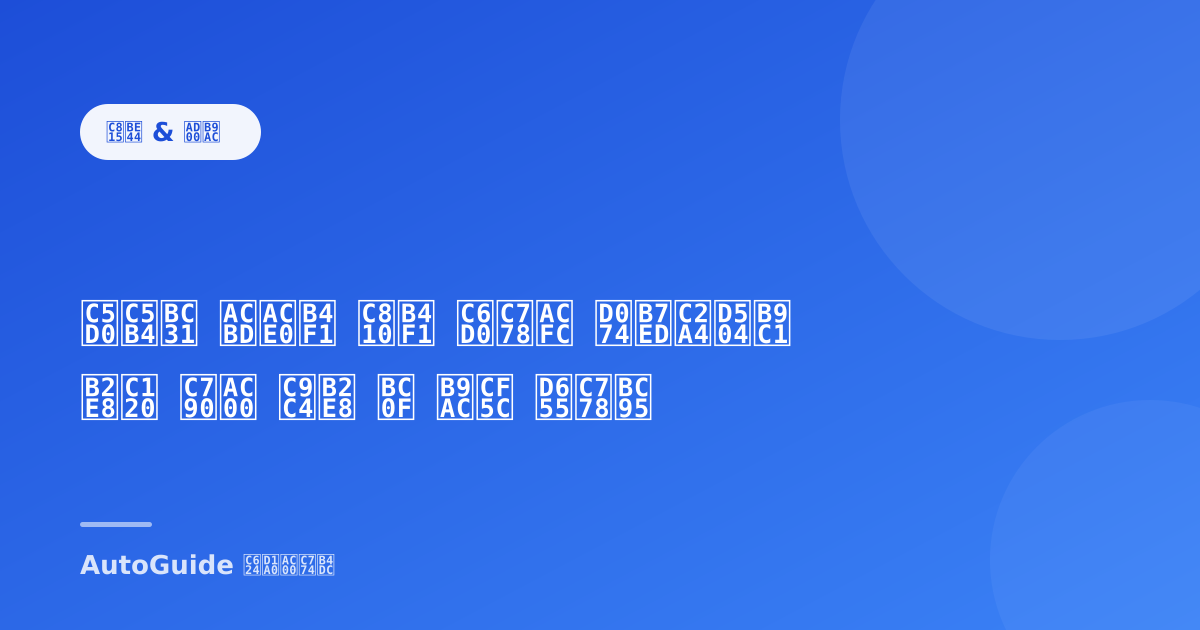
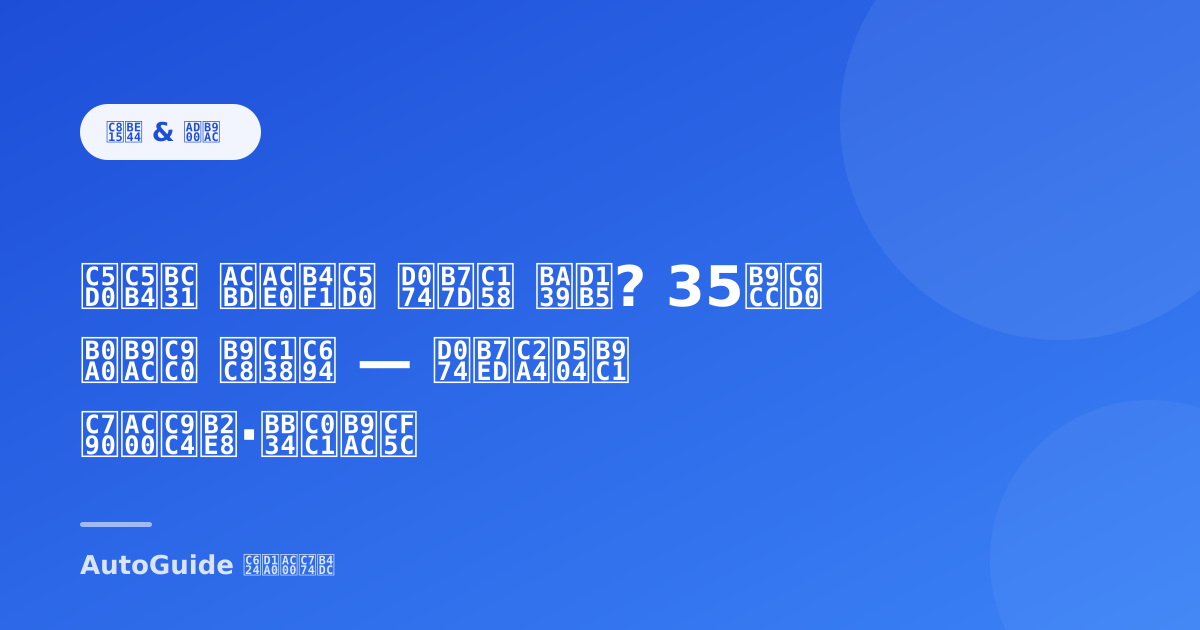
chore(blog): auto publish new article [skip ci]

Changed region(s): [[0.0617, 0.3921, 0.7092, 0.7238]]

diff --git a/src/content/blog/low-mileage-used-car-buying-pitfalls.md b/src/content/blog/low-mileage-used-car-buying-pitfalls.md
@@ -1,0 +1,192 @@
+---
+title: '주행거리 4만km 이하 중고차만 고르면 위험한 이유 — 가다 서다 가혹 조건 차량 구분법'
+description: '연식 대비 주행거리가 짧아 인기 높은 중고차의 숨겨진 가혹 주행 흔적과 속기 쉬운 맹점을 분석합니다.'
+pubDate: 2026-09-07
+category: 'buying'
+tags: ['중고차구매', '짧은주행거리', '가혹조건', '중고차점검']
+heroEmoji: '🔍'
+featured: false
+heroImage: '/images/heroes/low-mileage-used-car-buying-pitfalls.jpg'
+heroImageCredit: 'Erik Mclean / Pexels'
+heroImageId: '12700837'
+ogImage: '/images/heroes/low-mileage-used-car-buying-pitfalls-card.png'
+---
+
+주행거리 3만km 중고차가 8만km 차보다 엔진 상태가 안 좋을 수 있습니다. 단거리 주행의 함정을 확인하세요.
+
+중고차 시장에서 '연식 대비 짧은 주행거리'는 무조건적인 프리미엄 요소로 평가받습니다. 주행거리가 4만km 이하인 매물은 신차급 상태라는 인식이 강해 동급 평균 시세보다 수백만 원 높은 가격대가 형성됩니다. 그러나 자동차 제조사의 정비 지침서(Workshop Manual)와 기계공학적 원리를 대조해보면, '단거리 가다 서다' 위주로 운행된 저주행 차량은 장거리 정속 주행 위주의 고주행 차량보다 엔진 및 구동계 마모가 훨씬 심각하게 진행되었을 가능성이 큽니다.
+
+누적 주행거리는 단순히 바퀴가 굴러간 물리적 거리만을 나타낼 뿐, 엔진이 시동된 채 가동된 총 시간(Engine Operating Hours)과 엔진이 적정 작동 온도에 도달했는지 여부는 반영하지 못합니다. 4만km 이하 저주행 중고차에 숨겨진 구조적 위험성과 가혹 조건 차량을 가려내는 체계적인 검증 절차를 정리해 드립니다.
+
+---
+
+## 1. 저주행거리 중고차의 가격 거품과 '가혹 조건(Severe Condition)'의 진실
+
+국내 주요 완성차 및 수입차 제조사의 취급설명서를 살펴보면 차량 운행 조건을 '통상 조건'과 '가혹 조건'으로 명확히 구분하고 있습니다. 대다수 소비자는 험로 주행이나 과적만을 가혹 조건으로 생각하지만, 제조사가 규정하는 대표적인 가혹 조건은 다음과 같습니다.
+
+*   **1회 8km 미만의 짧은 거리 반복 주행**
+*   **잦은 정지와 출발을 반복하는 도심 체증 구간 주행**
+*   **공회전 시간이 과다하게 긴 주행 환경**
+*   **엔진이 적정 온도(냉각수 기준 85～95℃)에 도달하기 전 시동을 끄는 환경**
+
+```
+[통상 조건 vs 도심 가혹 조건 주행 비교]
+┌─────────────────┬──────────────────────┬──────────────────────┐
+│ 항목            │ 고속도로 장거리 위주  │ 도심 단거리 체증 위주│
+├─────────────────┼──────────────────────┼──────────────────────┤
+│ 누적 주행거리   │ 80,000 km            │ 30,000 km            │
+│ 평균 주행속도   │ 60～80 km/h         │ 15～20 km/h         │
+│ 엔진 가동 시간  │ 약 1,000～1,300시간 │ 약 1,500～2,000시간 │
+│ 냉각수 정상온도 │ 항시 정상 유지       │ 도달 전 주행 종료 빈발│
+│ 엔진 마모도     │ 낮음 (유막 안정적)   │ 높음 (냉간 시동 누적)│
+└─────────────────┴──────────────────────┴──────────────────────┘
+```
+
+평균 시속 15km로 서울 시내를 3만km 주행한 차량은 엔진이 약 2,000시간 동안 작동한 것입니다. 반면 평균 시속 70km로 고속도로를 8만km 주행한 차량의 엔진 가동 시간은 약 1,140시간에 불과합니다. 주행거리는 후자가 2.6배 길지만, 엔진 회전수(RPM) 누적과 열화 측면에서는 전자가 훨씬 가혹한 스트레스를 받은 셈입니다.
+
+그럼에도 불구하고 중고차 시장에서는 오직 계기판의 숫자만으로 3만km 차량에 200만～500만 원 이상의 웃돈을 책정합니다. 소비자는 '신차급 컨디션'이라는 명목으로 프리미엄을 지불하지만, 실제로는 내부 카본 누적과 윤활 불량이 진행된 차량을 고가에 인수하는 위험을 안게 됩니다.
+
+---
+
+## 2. 단거리 반복 주행 차량에서 발생하는 3대 기계적 결함
+
+단거리 도심 주행 위주로 누적 거리가 짧은 차량은 기계적으로 뚜렷한 세 가지 결함 패턴을 보입니다.
+
+### ① 엔진 내부 슬러지 형성 및 직분사(GDI) 흡기 밸브 카본 고착
+엔진이 정상 작동 온도에 도달하지 못하면 실린더 내부의 완전 연소가 이루어지지 않습니다. 이때 발생한 미연소 연료와 블로바이 가스(Blow-by Gas)는 크랭크케이스 내부로 유입되어 엔진오일과 섞입니다. 온도가 충분히 올라가지 않은 상태에서는 오일에 섞인 수분과 연료가 증발하지 못해 유화 현상(Mayonnaise Sludge)이 발생하고, 오일 겔화로 인해 윤활 성능이 급격히 저하됩니다. 직분사(GDI/T-GDI) 엔진의 경우 흡기 밸브 뒤편에 단단한 카본 바니시가 흡착되어 출력 저하와 노킹, 밸브 기밀 불량을 유발합니다.
+
+### ② 배출가스 후처리 장치(DPF/GPF)의 재생 실패 및 막힘
+디젤 차량의 매연저감장치(DPF)나 가솔린 미립자 필터(GPF)는 일정량 이상의 포집량이 쌓이면 배기가스 온도를 600℃ 이상으로 올려 퇴적물을 태워 없애는 '재생(Regeneration)' 과정을 거쳐야 합니다. 그러나 1회 주행 거리가 10～15분 내외인 도심 주행 차량은 배기 온도가 올라가지 않아 재생 모드가 중단되거나 실행되지 못합니다. 이로 인해 필터가 막혀 고가의 DPF 파손 및 차압 센서 고장, 터보차저 백프레셔 증가로 이어집니다.
+
+### ③ 유압계통 밸브 바디 오염 및 변속기 열화
+가다 서다를 반복하는 조건은 변속기 내부 1단, 2단 클러치 팩과 토크컨버터 록업 클러치에 잦은 슬립을 유발합니다. 특히 듀얼 클러치 변속기([DCT](/blog/dct-transmission-driving-tips/))의 경우, 저속 정체 구간에서 반클러치 상태가 지속되어 클러치 디스크의 조기 마모 및 열변형이 발생합니다. 미션오일 온도가 빈번하게 급상승하여 밸브 바디 내부 솔레노이드 밸브에 이물질이 고착되는 현상이 잦아집니다.
+
+---
+
+## 3. 방치 및 저주행 차량의 고무·케미컬 경화와 플랫 스팟(Flat Spot)
+
+주행거리가 짧은 이유가 단순히 도심 주행 때문이 아니라, 장기간 야외나 지하주차장에 세워둔 '방치 차량'인 경우 또 다른 문제가 발생합니다.
+
+*   **오일 실(Oil Seal) 및 가스켓 경화:** 엔진 내부의 가스켓과 고무 오일 실은 엔진오일이 순환하면서 적절히 적셔져야 탄성을 유지합니다. 장기간 시동을 걸지 않고 방치하면 고무가 건조해지고 산화되어 탄성을 잃습니다. 이 상태에서 갑자기 정상 주행을 시작하면 크랭크샤프트 리어 리테이너, 헤드 가스켓 등에서 누유가 발생합니다.
+*   **타이어 플랫 스팟(Flat Spot):** 한 위치에 수개월 이상 주차된 차량은 차체 하중이 타이어 접지부 한 지점에만 집중되어 타이어 내부 스틸 벨트가 영구 변형됩니다. 주행 시 특정 속도 구간(주로 80～100km/h)에서 휠 밸런스를 맞춰도 사라지지 않는 진동과 웅웅거리는 소음이 발생합니다.
+*   **브레이크 캘리퍼 고착 및 디스크 부식:** 차량을 운행하지 않으면 공기 중 수분으로 인해 브레이크 디스크 표면에 깊은 녹이 슬고, 캘리퍼 가이드 핀 및 피스톤 씰이 부식되어 고착됩니다. 제동 시 편제동, 밀림, 심한 스퀼 소음의 원인이 됩니다.
+
+---
+
+## 4. [순서형 실행 체크리스트] 가혹 조건 저주행 차량 실전 판별 6단계
+
+중고차를 확인할 때 판매자의 말이나 단순 계기판 숫자만 믿지 않고, 실제 가혹 주행 여부를 기술적으로 교차 검증하는 6단계 실무 절차입니다.
+
+```
+[가혹 조건 저주행 중고차 검증 6단계 흐름도]
+ 
+                                                                   │
+[6단계] OBD-II 가동시간 ◀── [5단계] 하부 부싱·타이어 ◀── [4단계] 배터리·충전전압
+```
+
+![[순서형 실행 체크리스트] 가혹 조건 저주행 차량 실전 판별 6단계](/images/charts/low-mileage-used-car-buying-pitfalls-flow-1.svg)
+
+### [1단계] 통합이력조회로 검사 데이터 및 정기 기록 분석
+*   **무엇을 보는가:** 정기검사 일자별 누적 주행거리 기록, 보험사고 이력, 정비 이력 날짜 간격.
+*   **확인처:** 국토교통부 '자동차365(automobil365.go.kr)' 또는 보험개발원 '카히스토리(carhistory.or.kr)'.
+*   **정상 기준:** 검사 주기(2년)마다 연평균 10,000～15,000km 수준으로 균등하게 증가한 기록.
+*   **벗어났을 때 대처:** 연간 주행거리가 2,000～3,000km 이하로 극단적으로 짧거나, 특정 2～3년 동안 주행거리 증가가 전무한 경우 장기 방치 차량으로 간주합니다. 엔진 실링 누유 점검 및 케미컬 전면 교체 비용을 예산에 반영해야 합니다.
+
+### [2단계] 실내 조작계 마모도와 계기판 주행거리 불일치 교차 검증
+*   **무엇을 보는가:** 브레이크 및 가속 페달 고무 요철, 스티어링 휠(핸들) 9시/3시 방향 가죽 질감, 운전석 시트 좌측 사이드 볼스터(엉덩이 및 등받이 지지대).
+*   **정상 기준:** 4만km 이하 차량은 페달 고무의 엠보싱 돌기가 뚜렷하며, 시트 가죽의 갈라짐이나 폼(스펀지) 꺼짐이 거의 없어야 함.
+*   **벗어났을 때 대처:** 누적 주행거리는 3만km인데 브레이크 페달 모서리 고무가 닳아 쇠가 비치거나, 스티어링 휠 가죽의 광택이 번들거리고 질감이 벗겨졌다면 신호 대기가 잦은 극단적 도심 주행 차량이거나 계기판 조작(꺾기) 매물일 가능성이 큽니다. 추가 정밀 스캔을 요구하거나 매물 선택을 재고하세요.
+
+### [3단계] 엔진오일 캡 내부 슬러지 및 오일 딥스틱 수분 점검
+*   **무엇을 보는가:** [엔진오일](/blog/gdi-engine-oil-consumption-fix/) 주유 캡(Fill Cap) 뒤집은 안쪽 면, 오일 레벨 게이지(딥스틱).
+*   **정상 기준:** 캡 내부 플라스틱/금속 면에 맑은 갈색 오일 막만 형성되어 있고, 딥스틱에 찍힌 오일이 투명하며 이물질이 없음.
+*   **벗어났을 때 대처:** 캡 내부에 누런색 또는 아이보리색 마요네즈 형태의 거품 슬러지가 묻어있다면 단거리 반복 주행으로 블로바이 가스 수분이 증발하지 못한 증거입니다. 엔진 내부 플러싱 및 로커암 커버 내부 세척이 요구되며, 침전 상태가 단단한 흑색 카본(Baked Sludge) 형태라면 엔진 블록 내부 오일 라인 막힘 위험이 있으므로 인수를 지양해야 합니다.
+
+```
+[엔진오일 주유 캡 내부 상태 진단 기준]
+* 정상: 맑은 황금색 또는 옅은 갈색 액체 유막 상태
+* 가혹 조건 (수분 유화): 캡 안쪽에 노란색/크림색 버터 같은 거품 형성
+* 극심한 고착 (열화 카본): 캡 안쪽에 단단하고 까만 알갱이 슬러지 고착
+```
+
+### [4단계] 배터리 수명(SoH) 및 발전기(알터네이터) 충전 전압 점검
+*   **무엇을 보는가:** 배터리 상단 제조일자 각인, 단자 부식 여부, 시동 전/후 배터리 전압.
+*   **정상 기준:** 시동 전 12.4V～12.8V, 시동 후 [발전기](/blog/car-alternator-generator-failure-symptoms/) 가동 시 13.8V～14.6V 유지.
+*   **벗어났을 때 대처:** 단거리 주행 차량은 시동 시 소모된 배터리 전력을 발전기가 완충할 시간을 확보하지 못해 배터리가 항상 방전 위험 상태(SoC 70% 미만)에 머뭅니다. 배터리 테스터기로 건강 상태(SoH)가 70% 이하로 측정되거나 배터리 단자에 흰색 황산염 가루가 고착되어 있다면 즉시 신품 교체가 필요합니다.
+
+### [5단계] 타이어 제조일자·플랫 스팟 및 하부 고무 부싱 점검
+*   **무엇을 보는가:** 타이어 옆면(사이드월)의 DOT 제조 주차(예: 2421 = 2021년 24주차), 로어암 및 스테빌라이저 바 고무 부싱.
+*   **정상 기준:** 타이어 트레드가 충분히 남아있고 미세 크랙이 없으며, 하부 부싱 고무가 찢어짐 없이 유연함을 유지.
+*   **벗어났을 때 대처:** 주행거리가 3만km라 트레드는 80% 이상 남았더라도, 타이어 생산 연도가 5년 이상 경과했거나 장기 주차로 트레드가 편평하게 눌린(Flat Spot) 상태라면 고속 주행 시 타이어 파열(블로우) 및 지속적 차체 떨림이 발생합니다. 트레드 잔량과 무관하게 타이어 4본 전면 교체 비용을 산정해야 합니다.
+
+### [6단계] 진단기(OBD-II) 기반 엔진 가동 시간(Engine Operating Hours) 역추산
+*   **무엇을 보는가:** 정비용 범용 스캐너 진단기를 차량 OBD-II 단자에 연결하여 ECU/TCU 내부의 '총 엔진 가동 시간' 및 'DPF/GPF 차압 센서 포집량' 데이터 확인.
+*   **정상 기준:** 계기판 누적 주행거리(km) ÷ 엔진 가동 시간(hr) = 평균 시속 30～45km/h 내외.
+*   **벗어났을 때 대처:** 계산된 평균 시속이 15km/h 이하로 나온다면(예: 주행거리 30,000km에 엔진 가동 시간 2,200시간 = 평균 시속 약 13.6km/h), 이는 주행거리 8만～10만km 통상 차량에 필적하는 엔진 마모가 발생한 가혹 조건 차량입니다. 엔진 및 변속기 내부 상태에 대한 종합 진단 후 가격을 대폭 네고하거나 구매 대상에서 제외해야 합니다.
+
+---
+
+## 5. 저주행 가혹 조건 차량 인수 직후 필수 케미컬 점검 가이드
+
+제조사의 소모품 교환 규격은 '주행거리(km)'와 '경과 기간(개월/년)' 중 **먼저 도래하는 것**을 기준으로 삼도록 명시되어 있습니다. 4만km 이하 저주행 차량이라도 연식이 4～5년 이상 경과했다면 주행거리와 상관없이 모든 주요 오일류의 수명이 다한 상태입니다.
+
+```
+[주요 케미컬 수명 도래 기준 및 교체 필요성]
+┌─────────────┬──────────────────────────┬─────────────────────────────┐
+│ 항목        │ 권장 주기 (주행거리/기간)│ 저주행 방치/도심 주행 시 위험성│
+├─────────────┼──────────────────────────┼─────────────────────────────┤
+│ 엔진오일    │ 5,000～10,000km / 6～12개월│ 수분 유화, 전염기가(TBN) 저하│
+│ 브레이크액  │ 40,000km / 2년           │ 수분 흡수로 인한 베이퍼 록 유발│
+│ 냉각수      │ 100,000km / 5년          │ 산성화로 인한 [라디에이터](/blog/car-radiator-leak-and-thermostat-stuck/) 부식│
+│ 미션오일    │ 60,000～80,000km / 4～5년  │ 잦은 변속 슬립으로 인한 산화│
+│ [연료필터](/blog/car-fuel-pump-and-filter-replacement/)    │ 40,000～60,000km / 2～3년  │ 연료탱크 결로로 인한 수분 유입│
+└─────────────┴──────────────────────────┴─────────────────────────────┘
+```
+
+특히 브레이크액(DOT3/DOT4)은 글리콜 기반으로 수분을 강하게 흡수하는 친수성 물질입니다. 주행을 전혀 하지 않고 지하에 주차해 두기만 해도 공기 중의 수분을 흡수하여 수분 함유량이 3～4% 이상으로 증가합니다. 이는 비등점을 낮춰 고온 제동 시 브레이크 페달이 푹 꺼지는 베이퍼 록(Vapor Lock) 현상을 초래하므로 인수 즉시 수분 테스터기로 확인 후 교체해야 합니다.
+
+---
+
+## 6. 가혹 조건 저주행 차량 리프레시 및 초기 정비 비용 안내
+
+저주행 중고차를 인수한 후 가혹 조건 운행 및 시간 경과로 인해 발생하는 케미컬·소모품 전면 교체(리프레시) 견적 범위입니다. 아래 금액은 부품비와 표준 공임이 포함된 일반적인 시장 가격대이며, 정비소 형태(공식 서비스센터, 프랜차이즈, 전문 정비업체), 차종, 사용 부품(순정품/규격 호환품)에 따라 차이가 발생합니다.
+
+### 차급별·국산/수입별 초기 메인터넌스 견적 범위
+
+| 차급 구분 | 기본 소모품 패키지<br>(엔진오일+브레이크액+배터리) | 하체 및 구동계 리프레시<br>(미션오일+냉각수+점화플러그) | 타이어 4본 전면 교체<br>(플랫스팟/경화 대응) | 종합 정비 예상 비용 합계 |
+| :--- | :--- | :--- | :--- | :--- |
+| **경차**<br>(모닝, 레이 등) | 180,000～270,000원 | 200,000～320,000원 | 240,000～380,000원 | **620,000～970,000원** |
+| **국산 준중형/중형**<br>(아반떼, 쏘나타 등) | 240,000～380,000원 | 280,000～450,000원 | 450,000～750,000원 | **970,000～1,580,000원** |
+| **국산 대형/SUV**<br>(그랜저, 팰리세이드 등) | 300,000～480,000원 | 380,000～620,000원 | 700,000～1,200,000원 | **1,380,000～2,300,000원** |
+| **수입 준중형/중형**<br>(3시리즈, C클래스 등) | 450,000～750,000원 | 600,000～1,100,000원 | 800,000～1,500,000원 | **1,850,000～3,350,000원** |
+| **수입 대형/대형 SUV**<br>(5시리즈, E클래스, X5) | 550,000～950,000원 | 850,000～1,600,000원 | 1,200,000～2,200,000원 | **2,600,000～4,750,000원** |
+
+![차급별·국산/수입별 초기 메인터넌스 견적 범위](/images/charts/low-mileage-used-car-buying-pitfalls-1.svg)
+
+*정확한 부품 품번 및 전용 오일 규격(예: 저점도 0W-16/0W-20, 변속기 전용 규격 오일)에 따른 상세 비용은 [차대번호](/blog/used-car-inspection-checklist/)(VIN)를 바탕으로 제조사 서비스센터 또는 정비 예약처에 사전 확인하시기 바랍니다.*
+
+---
+
+## 7. 현명한 중고차 선택을 위한 가성비 주행거리 구간
+
+무조건적인 4만km 이하 저주행 차량 선호에서 벗어나면, 차량의 실제 기계적 컨디션과 가성비를 모두 확보할 수 있는 대안이 보입니다.
+
+```
+[연식 대비 주행거리별 최적의 선택 전략]
+1. 비추천 구간: 연식 5년 이상 & 주행거리 2～3만km (장기 방치 및 도심 가혹 위험 극대화)
+2. 주의 구간: 연식 3년 이내 & 주행거리 1～2만km (가격 거품 최고조, 냉간 시동 슬러지 확인 필수)
+3. 추천 구간: 연식 3～5년 & 주행거리 5～7만km (정기적 장거리 운행으로 유막 유지, 가격 감가 적정)
+```
+
+1년에 약 12,000～15,000km를 주행하여 4년 차에 5만～6만km를 기록한 매물은 장거리 항속 주행 비율이 높아 엔진 내부에 수분 슬러지가 쌓이지 않고 배출가스 시스템이 정상 작동했을 확률이 큽니다. 이러한 차량은 저주행 차량 대비 시세가 15～25%가량 저렴하여 가격 거품이 빠져 있습니다.
+
+중고차를 고를 때는 계기판의 숫자만 바라보지 마시고, **정기적인 소모품 교환 이력서**와 **엔진 가동 시간**, 그리고 **차량 하부 및 케미컬의 실제 상태**를 대조하는 검증을 진행하시기 바랍니다. 겉만 번지르르한 저주행 가혹 차량보다, 규격에 맞게 정기적으로 케어받은 6만～7만km 차량이 유지보수 비용과 잔고장 위험을 대폭 낮추는 선택이 될 수 있습니다.
+
+## 참고 · 직접 확인할 수 있는 공식 창구
+
+본문에 표기된 공임과 부품 비용은 2026년 9월 참고 범위이며, 지역과 정비소 유형(직영 서비스센터·협력점·사설), 차종·연식에 따라 크게 달라집니다. 실제 견적은 2곳 이상에서 받아 비교하시고, 수리 전에 아래 창구에서 리콜·무상수리 대상 여부를 먼저 조회해 보시기 바랍니다.
+
+- [카히스토리(보험개발원) — 사고·침수 이력 조회](https://www.carhistory.or.kr)
+- [자동차365 — 중고차 성능점검 및 매매 정보](https://www.car365.go.kr)
+- [자동차민원 대국민포털 — 등록·이전 민원](https://www.ecar.go.kr)
+- [위택스 — 자동차세·취득세 조회](https://www.wetax.go.kr)

diff --git a/src/content/blog/car-fuel-economy-driving-habits.md b/src/content/blog/car-fuel-economy-driving-habits.md
@@ -42,7 +42,7 @@ ogImage: '/images/heroes/car-fuel-economy-driving-habits-card.png'
 
 ![기어 중립(N) 주행 vs D단 퓨얼컷 주행 비교](/images/charts/car-fuel-economy-driving-habits-flow-2.svg)
 
-또한, 고속 주행 중 N단으로 기어를 변속하는 행위는 변속기 내부의 유압 제어 밸브와 클러치 디스크에 비정상적인 마찰을 유발하여 변속기 수명을 단축시킬 수 있습니다. 안전 측면에서도 엔진 브레이크가 작동하지 않아 풋 브레이크 과열로 인한 베이퍼 록(Vapor Lock)이나 페이드(Fade) 현상을 초래할 위험이 큽니다.
+또한, 고속 주행 중 N단으로 기어를 변속하는 행위는 [변속기](/blog/dct-transmission-driving-tips/) 내부의 유압 제어 밸브와 클러치 디스크에 비정상적인 마찰을 유발하여 변속기 수명을 단축시킬 수 있습니다. 안전 측면에서도 엔진 브레이크가 작동하지 않아 풋 브레이크 과열로 인한 베이퍼 록(Vapor Lock)이나 페이드(Fade) 현상을 초래할 위험이 큽니다.
 
 ---
 
@@ -62,7 +62,7 @@ ogImage: '/images/heroes/car-fuel-economy-driving-habits-card.png'
 최근 차량에 기본 탑재되는 ISG 기능은 정차 시 엔진을 완전히 정지시켜 연료 소모를 0으로 만듭니다. 
 
 *   **[배터리](/blog/ev-vs-hybrid-maintenance-cost/) 및 스타터 모터 스펙:** ISG 장착 차량은 수만 번의 재시동을 견디도록 설계된 고내구성 AGM(Absorbent Glass Mat) 배터리와 강화 스타터 모터를 사용합니다.
-*   **일반 차량의 임의 시동 끄기 위험성:** ISG 기능이 없는 일반 차량에서 신호 대기 시마다 시동을 수동으로 끄는 행위는 일반 납산 배터리(Sli)와 스타터 모터에 과도한 부하를 주어 조기 파손을 유발하므로 지양해야 합니다.
+*   **일반 차량의 임의 시동 끄기 위험성:** ISG 기능이 없는 일반 차량에서 신호 대기 시마다 시동을 수동으로 끄는 행위는 일반 납산 [배터리](/blog/ev-vs-hybrid-maintenance-cost/)(Sli)와 스타터 모터에 과도한 부하를 주어 조기 파손을 유발하므로 지양해야 합니다.
 
 ---
 
@@ -181,7 +181,7 @@ ogImage: '/images/heroes/car-fuel-economy-driving-habits-card.png'
 
 ![차급별 주요 부품 정비 비용 범위 (공임 포함 기준)](/images/charts/car-fuel-economy-driving-habits-1.svg)
 
-*   *참고사항:* 수입차량의 경우 브랜드의 서비스 정책과 독자적인 변속기 규격(예: ZF, MB 9단 등)에 따라 전용 오일 단가 규격이 매우 높게 책정될 수 있어 비용 편차가 큽니다. 정확한 규격 매칭을 위해 차대번호 조회가 필수적입니다.
+*   *참고사항:* 수입차량의 경우 브랜드의 서비스 정책과 독자적인 변속기 규격(예: ZF, MB 9단 등)에 따라 전용 오일 단가 규격이 매우 높게 책정될 수 있어 비용 편차가 큽니다. 정확한 규격 매칭을 위해 [차대번호](/blog/used-car-inspection-checklist/) 조회가 필수적입니다.
 
 ---
 

diff --git a/src/content/blog/hybrid-engine-oil-increase-guide.md b/src/content/blog/hybrid-engine-oil-increase-guide.md
@@ -108,7 +108,7 @@ ogImage: '/images/heroes/hybrid-engine-oil-increase-guide-card.png'
 엔진오일을 교환할 때는 반드시 [하이브리드](/blog/ev-vs-hybrid-maintenance-cost/) 엔진 특성을 고려해 설계된 최신 규격의 제품을 선택해야 합니다.
 
 * **점도 등급:** 제조사 매뉴얼상 명시된 **0W-16** 또는 **0W-20**과 같은 저점도 오일을 사용합니다. 저온 유동성이 우수하여 냉간 시동 시 마모를 방지합니다.
-* **API SP 및 ILSAC GF-6 규격 확인:** 최신 국제 규격인 **API SP** 및 **ILSAC GF-6A / GF-6B** 등급은 하이브리드 차량의 고질적인 문제인 저속 조기 점화(LSPI) 현상을 방지하고, 연료 희석 상태에서의 타이밍 체인 마모 방지 성능이 강화되어 있으므로 오일 선택 시 제품 전면의 규격 마크를 반드시 대조해 보세요.
+* **API SP 및 ILSAC GF-6 규격 확인:** 최신 국제 규격인 **API SP** 및 **ILSAC GF-6A / GF-6B** 등급은 [하이브리드](/blog/ev-vs-hybrid-maintenance-cost/) 차량의 고질적인 문제인 저속 조기 점화(LSPI) 현상을 방지하고, 연료 희석 상태에서의 타이밍 체인 마모 방지 성능이 강화되어 있으므로 오일 선택 시 제품 전면의 규격 마크를 반드시 대조해 보세요.
 
 ---
 
@@ -162,7 +162,7 @@ ogImage: '/images/heroes/hybrid-engine-oil-increase-guide-card.png'
 - [ ] **오일 색상 및 점도 확인:** 딥스틱에 묻은 오일을 손가락으로 만져보아 물처럼 너무 묽지 않은지, 혹은 우윳빛 백탁 현상이 없는지 확인합니다.
 - [ ] **냄새 체크:** [엔진오일](/blog/gdi-engine-oil-consumption-fix/) 주입구 캡을 열어 가솔린 탄 냄새가 심하게 진동하는지 냄새를 맡아봅니다.
 - [ ] **냉각수 수위 확인:** 오일 증가와 동시에 냉각수 보조 탱크의 수위가 급격히 줄어들지 않았는지 대조합니다.
-- [ ] **리콜 및 무상수리 조회:** '자동차리콜센터' 홈페이지에 접속하여 내 차량의 ECU 업데이트 등 미완료 조치가 있는지 차대번호로 검색합니다.
+- [ ] **리콜 및 [무상수리](/blog/car-warranty-expiration-inspection-checklist/) 조회:** '자동차리콜센터' 홈페이지에 접속하여 내 차량의 ECU 업데이트 등 미완료 조치가 있는지 차대번호로 검색합니다.
 - [ ] **주행 습관 개선:** 주 1회 이상은 편도 30분 이상의 중장거리 주행을 통해 오일 온도를 올려 혼입된 연료를 자연 증발시킵니다.
 
 ## 참고 · 직접 확인할 수 있는 공식 창구

diff --git a/src/content/blog/car-warranty-expiration-inspection-checklist.md b/src/content/blog/car-warranty-expiration-inspection-checklist.md
@@ -54,7 +54,7 @@ ogImage: '/images/heroes/car-warranty-expiration-inspection-checklist-card.png'
 [증상 발생]
   ├─ 요철 주행 시 하체 찌걱거림/덜걱거림 ──▶ 하체 로워암/볼조인트/스테빌라이저 점검 (일반 보증)
   ├─ 냉간 시동 직후 금속성 찰칵거림/딱딱 소음 ──▶ 타이밍 체인/CVVT 모듈/HLA 밸브 점검 (파워트레인 보증)
-  ├─ 저속 변속 구간 울컥거림/슬립/충격 ──────▶ 변속기 밸브바디/듀얼클러치/토크컨버터 점검 (파워트레인 보증)
+  ├─ 저속 변속 구간 울컥거림/슬립/충격 ──────▶ [변속기](/blog/dct-transmission-driving-tips/) 밸브바디/듀얼클러치/토크컨버터 점검 (파워트레인 보증)
   ├─ 주차면 바닥 액체 흔적/엔진룸 하단 번들거림 ─▶ 로커암 커버/프론트 케이스/오일팬 실링 점검 (파워트레인 보증)
   ├─ 에어컨 가동 시 냉기 부족/화학 약품 냄새 ──▶ 에바포레이터 코어/컴프레서 점검 (일반 보증)
   ├─ 가속 페달 전개 시 고주파 모터 소음/울컥거림 ─▶ 구동 모터 베어링/감속기/EPCU 점검 (친환경차 보증)
@@ -121,7 +121,7 @@ ogImage: '/images/heroes/car-warranty-expiration-inspection-checklist-card.png'
 
 #### 진단 분기 및 배제 절차
 1. **증상 확인**: 내비게이션 화면이 간헐적으로 멈추거나 재부팅, 계기판에 "전방 충돌 방지 보조 시스템을 점검하십시오" 경고등 간헐 점등.
-2. **원인 배제 1단계**: 배터리 저전압으로 인한 일시적 통신 오류 코드 소거 후 재발 여부 확인.
+2. **원인 배제 1단계**: [배터리](/blog/ev-vs-hybrid-maintenance-cost/) 저전압으로 인한 일시적 통신 오류 코드 소거 후 재발 여부 확인.
 3. **원인 배제 2단계**: 전방 엠블럼/유리창 오염 배제.
 4. **원인 배제 3단계**: CAN/Ethernet 통신 라인 패킷 에러 및 모듈 내부 ROM/RAM 하드웨어 불량 로그 분석.
 * **보증 청구 대상**: AVN 헤드유닛 본체 교체, 전방 레이더 및 다기능 전방 카메라 모듈 교체.

diff --git a/src/content/blog/santafe-tm-vs-mx5-comparison.md b/src/content/blog/santafe-tm-vs-mx5-comparison.md
@@ -123,7 +123,7 @@ ogImage: '/images/heroes/santafe-tm-vs-mx5-comparison-card.png'
 *   MX5는 후면부 디자인 특성상 테일게이트의 면적이 매우 넓고 무겁습니다. 이로 인해 좌우 단차가 맞지 않거나, 우천 시 테일게이트 웨더스트립 밀착 불량으로 인해 트렁크 내부 웰(Well) 공간으로 빗물이 유입되는 사례가 보고되었습니다. 트렁크 바닥 매트를 들어 올려 스페어타이어 공간이나 수납공간에 물기나 곰팡이 흔적이 없는지 육안으로 확인해야 합니다.
 
 ### 하이브리드 인터쿨러 및 냉각수 경고등 이슈
-*   1.6 터보 하이브리드 모델 중 일부에서 하이브리드 시스템 경고등과 함께 '냉각수 부족' 경고가 발생하는 현상이 있습니다. 이는 하이브리드 전용 냉각수 라인의 미세 누수 또는 워터펌프 제어 로직 오류일 수 있으므로, 엔진룸 우측에 위치한 분홍색(또는 파란색 저전도) 냉각수 보조탱크의 수위를 확인하십시오.
+*   1.6 터보 [하이브리드](/blog/ev-vs-hybrid-maintenance-cost/) 모델 중 일부에서 하이브리드 시스템 경고등과 함께 '냉각수 부족' 경고가 발생하는 현상이 있습니다. 이는 하이브리드 전용 냉각수 라인의 미세 누수 또는 워터펌프 제어 로직 오류일 수 있으므로, 엔진룸 우측에 위치한 분홍색(또는 파란색 저전도) 냉각수 보조탱크의 수위를 확인하십시오.
 
 ### 무선 소프트웨어 업데이트(OTA) 및 통합 제어기(ccNC) 오류
 *   차세대 인포테인먼트 시스템인 ccNC가 적용되면서 무선 업데이트 도중 시스템이 먹통이 되거나 계기판 화면이 깜빡이는 오류가 발생할 수 있습니다. 보증 수리 기간 내에 무상으로 제어기 업데이트를 받았는지 센터 이력을 조회해 보아야 합니다.

diff --git a/src/content/blog/car-oxygen-sensor-fuel-trim-diagnosis.md b/src/content/blog/car-oxygen-sensor-fuel-trim-diagnosis.md
@@ -63,7 +63,7 @@ ogImage: '/images/heroes/car-oxygen-sensor-fuel-trim-diagnosis-card.png'
 센서 내부에는 고체 전해질인 이산화지르코늄(ZrO2) 소자가 들어있습니다. 이 소자의 안쪽은 대기(외부 공기)와 통하고, 바깥쪽은 배기가스에 노출되어 있습니다. 엔진이 작동하여 [배기가스](/blog/catalytic-converter-theft-and-blockage/) 온도가 약 300°C 이상으로 올라가면 지르코늄 소자가 활성화되면서 대기 중의 산소 농도와 배기가스 중의 산소 농도 차이를 감지하기 시작합니다.
 
 *   **희박(Lean) 상태 (0.1V ～0.3V):** 
-    배기가스 속에 산소량이 많다는 것은 연료가 적게 분사되었다는 의미입니다. 이때는 안팎의 산소 농도 차이가 작아져 산소센서가 약 0.1V에 가까운 낮은 전압을 발생시킵니다. ECU는 이 신호를 받고 "연료가 부족하니 더 분사하라"고 명령합니다.
+    [배기가스](/blog/catalytic-converter-theft-and-blockage/) 속에 산소량이 많다는 것은 연료가 적게 분사되었다는 의미입니다. 이때는 안팎의 산소 농도 차이가 작아져 산소센서가 약 0.1V에 가까운 낮은 전압을 발생시킵니다. ECU는 이 신호를 받고 "연료가 부족하니 더 분사하라"고 명령합니다.
 *   **농후(Rich) 상태 (0.7V ～0.9V):** 
     배기가스 속에 산소가 거의 없다는 것은 연료가 과다하게 분사되어 연소 과정에서 산소를 모두 소비했다는 뜻입니다. 이때는 안팎의 산소 농도 차이가 극대화되어 약 0.9V에 가까운 높은 전압을 발생시킵니다. ECU는 이 신호를 받고 "연료가 너무 많으니 분사량을 줄이라"고 명령합니다.
 

diff --git a/src/content/blog/engine-carbon-cleaning-guide.md b/src/content/blog/engine-carbon-cleaning-guide.md
@@ -31,7 +31,7 @@ ogImage: '/images/heroes/engine-carbon-cleaning-guide-card.png'
 1. **블로바이 가스(Blow-by Gas)와 PCV 시스템:** 엔진 연소 행정 중 피스톤 링 사이로 누설된 미연소 가스와 오일 미스트(안개 분무 형태의 [엔진오일](/blog/gdi-engine-oil-consumption-fix/))는 환경 규제에 따라 대기로 방출되지 않고 PCV(Positive Crankcase Ventilation) 밸브를 통해 흡기 다기능관으로 다시 유입됩니다. 이 오일 성분이 뜨거운 흡기 밸브 뒷면에 닿아 흡착됩니다.
 2. **[배기가스](/blog/catalytic-converter-theft-and-blockage/) 재순환 장치(EGR):** 질소산화물(NOx)을 줄이기 위해 배기가스의 일부를 흡기 다기능관으로 재유입시키는 과정에서 미세한 그을음(Soot)과 탄화 수소가 흡착된 오일 미스트와 결합합니다.
 
-이 두 성분이 약 200℃ 내외로 달궈진 흡기 밸브 뒷면에서 구워지면서 점차 단단한 탄화물(Carbon Deposit)로 변하게 됩니다. 이는 제조사 정비 지침서상에서도 GDI 엔진의 물리적 특성으로 규정하고 있으며, 일정 주행거리 이후에는 물리적인 클리닝이 필요함을 명시하고 있습니다.
+이 두 성분이 약 200℃ 내외로 달궈진 흡기 밸브 뒷면에서 구워지면서 점차 단단한 탄화물(Carbon Deposit)로 변하게 됩니다. 이는 제조사 정비 지침서상에서도 [GDI](/blog/gdi-engine-oil-consumption-fix/) 엔진의 물리적 특성으로 규정하고 있으며, 일정 주행거리 이후에는 물리적인 클리닝이 필요함을 명시하고 있습니다.
 
 ---
 

diff --git a/src/content/blog/car-cv-joint-boot-torn-clicking-noise.md b/src/content/blog/car-cv-joint-boot-torn-clicking-noise.md
@@ -175,7 +175,7 @@ ogImage: '/images/heroes/car-cv-joint-boot-torn-clicking-noise-card.png'
 
 ### 정비 후 사후 관리 및 모니터링 요령
 
-1.  **정비 직후 50km 이내 초기 점검**: 수리 후 처음 며칠간은 주행을 마치고 주차한 후, 교체한 바퀴 주변 바닥에 미션오일이나 그리스가 떨어져 있는지 확인합니다. 내측 조인트 조립 불량으로 인한 변속기 오일 누유 여부를 체크하기 위함입니다.
+1.  **정비 직후 50km 이내 초기 점검**: 수리 후 처음 며칠간은 주행을 마치고 주차한 후, 교체한 바퀴 주변 바닥에 미션오일이나 그리스가 떨어져 있는지 확인합니다. 내측 조인트 조립 불량으로 인한 [변속기](/blog/dct-transmission-driving-tips/) 오일 누유 여부를 체크하기 위함입니다.
 2.  **핸들 타격감 확인**: 정비 후 핸들을 끝까지 돌렸을 때 묵직함이 지나치게 변했거나, 특정 속도에서 핸들이 좌우로 심하게 떨린다면 휠 밸런스 불량 또는 샤프트 조립 불량(스플라인 오정렬)일 수 있으므로 즉시 재방문하여 점검을 받아야 합니다.
 3.  **세차 시 하부 고압수 주의**: 고무 부트는 질긴 화학 소재이지만 고압 세차기의 물줄기를 직접적으로 가까이서 분사하면 부트가 찢어지거나 클램프가 변형될 수 있습니다. 하부 세차 시에는 적절한 거리를 유지하여 분사하는 것이 부트 수명을 늘리는 지름길입니다.
 

diff --git a/src/content/blog/engine-warning-light-yellow-vs-red.md b/src/content/blog/engine-warning-light-yellow-vs-red.md
@@ -166,7 +166,7 @@ ogImage: '/images/heroes/engine-warning-light-yellow-vs-red-card.png'
 ### 2⃣ 빨간색 냉각수 과열 경고등 점등 및 수온계 적색 영역 진입
 *   **자가 진단법:** 적색 온도계 표시 점등 및 보닛에서 수증기 발생 여부 확인.
 *   **위험 요인:** 실린더 헤드 알루미늄 변형, 헤드 가스켓 파손으로 인한 냉각수 엔진 유입.
-*   **대처법:** 안전한 곳에 정차 후 즉시 에어컨을 끄고 히터를 최고 온도/최대 풍량으로 가동. 수온이 내려가지 않으면 즉시 시동을 끄고 견인. 엔진이 식기 전 라디에이터 캡 개방 절대 금지.
+*   **대처법:** 안전한 곳에 정차 후 즉시 에어컨을 끄고 히터를 최고 온도/최대 풍량으로 가동. 수온이 내려가지 않으면 즉시 시동을 끄고 견인. 엔진이 식기 전 [라디에이터](/blog/car-radiator-leak-and-thermostat-stuck/) 캡 개방 절대 금지.
 
 ### 3⃣ 노란색 엔진 경고등 점등과 함께 심한 엔진 부조(말타기 현상) 및 금속성 소음 발생
 *   **자가 진단법:** 경고등은 노란색이지만, 차체가 심하게 덜덜 떨리고 가속 페달을 밟아도 속도가 나지 않으며 엔진룸에서 "딱딱딱" 하는 금속 마찰음이 들림.

diff --git a/src/content/blog/ev-vs-hybrid-maintenance-cost.md b/src/content/blog/ev-vs-hybrid-maintenance-cost.md
@@ -51,7 +51,7 @@ ogImage: '/images/heroes/ev-vs-hybrid-maintenance-cost-card.png'
 
 ```
 [5년 누적 에너지 비용 비교 (75,000km)]
-하이브리드 (휘발유): 6,875,000원
+[하이브리드](/blog/hybrid-battery-lifespan-replacement-cost/) (휘발유): 6,875,000원
 전기차 (전기):     4,903,800원
 ---------------------------------------
 차액: 전기차가 약 1,971,200원 절감
